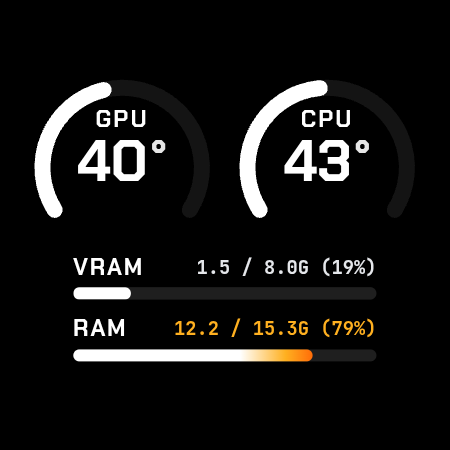
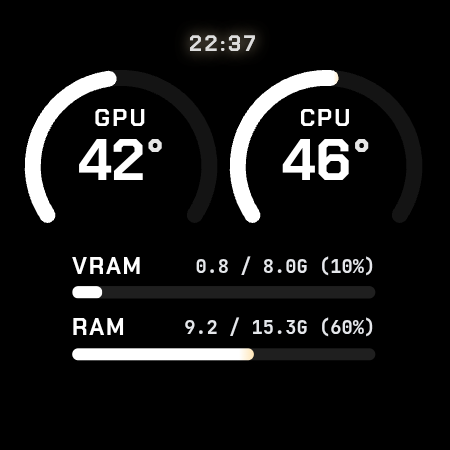
Add breathing 24-hour IST clock and restore 1s telemetry rate with liveness watchdog

diff --git a/static/js/app.js b/static/js/app.js
@@ -13,7 +13,7 @@
   const faceButtons = document.querySelectorAll('.theme-btn');
   let eventSource = null;
   let pollIntervalTimer = null;
-  let updateIntervalMs = 1500;
+  let updateIntervalMs = 1000;
   let wakeLock = null;
   let lastTapTime = 0;
   let burnInEnabled = true;
@@ -441,20 +441,86 @@
     });
   }
 
+  // Telemetry Liveness & IST Timezone tracking
+  let serverTimeOffsetMs = 0;
+  let lastTelemetryReceivedTime = 0;
+  const STALE_TIMEOUT_MS = 2500; // 2.5 seconds without update from server = stale/offline
+
+  // Formatter for IST (Asia/Kolkata - 24-hour HH:mm)
+  let istFormatter = null;
+  try {
+    istFormatter = new Intl.DateTimeFormat('en-GB', {
+      timeZone: 'Asia/Kolkata',
+      hour: '2-digit',
+      minute: '2-digit',
+      hour12: false
+    });
+  } catch (e) {
+    console.warn('Intl Asia/Kolkata not supported, falling back to manual offset calculation');
+  }
+
+  function getIstTime() {
+    // Sync with server epoch if available
+    const targetEpoch = Date.now() + serverTimeOffsetMs;
+    const targetDate = new Date(targetEpoch);
+
+    if (istFormatter) {
+      return istFormatter.format(targetDate);
+    }
+
+    // Manual fallback for IST (UTC + 5 hours 30 mins)
+    const utcMs = targetDate.getTime() + (targetDate.getTimezoneOffset() * 60000);
+    const istDate = new Date(utcMs + (5.5 * 3600000));
+    const hours = String(istDate.getHours()).padStart(2, '0');
+    const minutes = String(istDate.getMinutes()).padStart(2, '0');
+    return `${hours}:${minutes}`;
+  }
+
   /**
-   * Update Digital Clocks
+   * Monitor Telemetry Liveness:
+   * If updates from server stop for more than 2.5s, pause breathing on the clock.
+   */
+  function checkTelemetryLiveness() {
+    const isAlive = (lastTelemetryReceivedTime > 0) && (Date.now() - lastTelemetryReceivedTime < STALE_TIMEOUT_MS);
+    
+    const clockEls = [
+      elements.hudClock,
+      elements.cyberClock,
+      elements.minClock,
+      elements.gridClockMini,
+      elements.chronoClock
+    ];
+
+    clockEls.forEach(el => {
+      if (el) {
+        if (isAlive) {
+          el.classList.remove('stale');
+        } else {
+          el.classList.add('stale');
+        }
+      }
+    });
+
+    if (elements.liveDot) {
+      elements.liveDot.style.opacity = isAlive ? '1' : '0.2';
+    }
+  }
+
+  setInterval(checkTelemetryLiveness, 500);
+
+  /**
+   * Update Digital Clocks in IST (24-Hour)
    */
   function updateClocks() {
-    const now = new Date();
-    const hours = String(now.getHours()).padStart(2, '0');
-    const minutes = String(now.getMinutes()).padStart(2, '0');
-    const timeStr = `${hours}:${minutes}`;
+    const timeStr = getIstTime();
 
     if (elements.cyberClock) elements.cyberClock.textContent = timeStr;
     if (elements.hudClock) elements.hudClock.textContent = timeStr;
     if (elements.minClock) elements.minClock.textContent = timeStr;
     if (elements.gridClockMini) elements.gridClockMini.textContent = timeStr;
     if (elements.chronoClock) elements.chronoClock.textContent = timeStr;
+
+    checkTelemetryLiveness();
   }
 
   setInterval(updateClocks, 1000);
@@ -465,6 +531,12 @@
    */
   function updateTelemetry(data) {
     if (!data) return;
+
+    lastTelemetryReceivedTime = Date.now();
+    if (data.timestamp) {
+      serverTimeOffsetMs = (data.timestamp * 1000) - Date.now();
+    }
+    checkTelemetryLiveness();
 
     const cpu = data.cpu || {};
     const gpu = data.gpu || {};

diff --git a/templates/index.html b/templates/index.html
@@ -278,7 +278,7 @@
                 <!-- On-Screen Telemetry Elements -->
                 <div class="cyber-header">
                   <span class="pulse-indicator" id="liveDot" title="Live telemetry pulse"></span>
-                  <span class="digital-clock" id="cyberClock">12:00</span>
+                  <span class="digital-clock breathing-clock" id="cyberClock">12:00</span>
                   <span class="fps-badge" id="cyberFreq">3.8G</span>
                   <span class="thermal-warning-badge" id="cyberThermalBadge">🔥 HOT</span>
                 </div>
@@ -346,6 +346,11 @@
               <!-- ======================================================== -->
               <div class="watch-face active" id="faceArc">
                 
+                <!-- Top Breathing 24-Hour Digital Clock -->
+                <div class="hud-top-clock">
+                  <span class="breathing-clock" id="hudClock">--:--</span>
+                </div>
+
                 <!-- Central Dual Temperature Gauges (GPU & CPU) -->
                 <div class="hud-gauges-container">
                   <!-- GPU Speedometer Arc (Temperature) -->
@@ -429,7 +434,7 @@
               <!-- ======================================================== -->
               <div class="watch-face" id="faceMinimal">
                 <div class="minimal-wrapper">
-                  <div class="minimal-time" id="minClock">12:00</div>
+                  <div class="minimal-time breathing-clock" id="minClock">12:00</div>
                   
                   <div class="minimal-duo">
                     <div class="min-side">
@@ -499,7 +504,7 @@
                       <span>PWR</span>
                       <strong id="gridPwr">16W</strong>
                     </div>
-                    <div class="grid-big-val" id="gridClockMini">12:00</div>
+                    <div class="grid-big-val breathing-clock" id="gridClockMini">12:00</div>
                     <div class="grid-sub" id="gridNet">0 KB/s</div>
                   </div>
                 </div>
@@ -547,7 +552,7 @@
                   <!-- Top Time & RPM badge -->
                   <div class="chrono-header">
                     <span class="chrono-badge">COCKPIT</span>
-                    <span class="digital-clock chrono-clock" id="chronoClock">12:00</span>
+                    <span class="digital-clock chrono-clock breathing-clock" id="chronoClock">12:00</span>
                     <span class="chrono-badge" id="chronoGpuFan">FAN 45%</span>
                   </div>
 

diff --git a/static/css/style.css b/static/css/style.css
@@ -842,6 +842,58 @@ input:checked + .slider:before {
   color: #e0e5f2;
 }
 
+/* Breathing 24-Hour Digital Clock */
+@keyframes clockBreathe {
+  0%, 100% {
+    opacity: 0.65;
+    transform: scale(0.97);
+    text-shadow: 0 0 6px rgba(255, 255, 255, 0.25);
+  }
+  50% {
+    opacity: 1;
+    transform: scale(1.02);
+    text-shadow: 0 0 16px rgba(255, 255, 255, 0.8), 0 0 24px var(--gpu-glow, rgba(0, 243, 255, 0.45));
+  }
+}
+
+.breathing-clock {
+  display: inline-block;
+  font-family: var(--font-hud, 'Chakra Petch', sans-serif);
+  font-weight: 700;
+  letter-spacing: 2px;
+  animation: clockBreathe 3.5s ease-in-out infinite;
+  will-change: transform, opacity;
+  transition: opacity 0.5s ease, filter 0.5s ease;
+}
+
+/* Stops breathing immediately if server telemetry stops */
+.breathing-clock.stale {
+  animation: none !important;
+  opacity: 0.45 !important;
+  transform: scale(1) !important;
+  text-shadow: none !important;
+  filter: grayscale(1);
+}
+
+/* Dedicated Top Clock for Dual Arc HUD */
+.hud-top-clock {
+  position: absolute;
+  top: 14px;
+  left: 50%;
+  transform: translateX(-50%);
+  z-index: 10;
+  display: flex;
+  align-items: center;
+  justify-content: center;
+  pointer-events: none;
+}
+
+.hud-top-clock .breathing-clock {
+  font-size: 20px;
+  color: #ffffff;
+  letter-spacing: 2.5px;
+}
+
 .fps-badge {
   font-family: var(--font-hud);
   font-size: 11px;

diff --git a/server.py b/server.py
@@ -259,7 +259,7 @@ def hardware_monitor_worker():
         except Exception as e:
             logger.error(f"Error updating hardware metrics: {e}")
             
-        time.sleep(1.5)
+        time.sleep(1.0)
 
 # Routes
 @app.before_request
